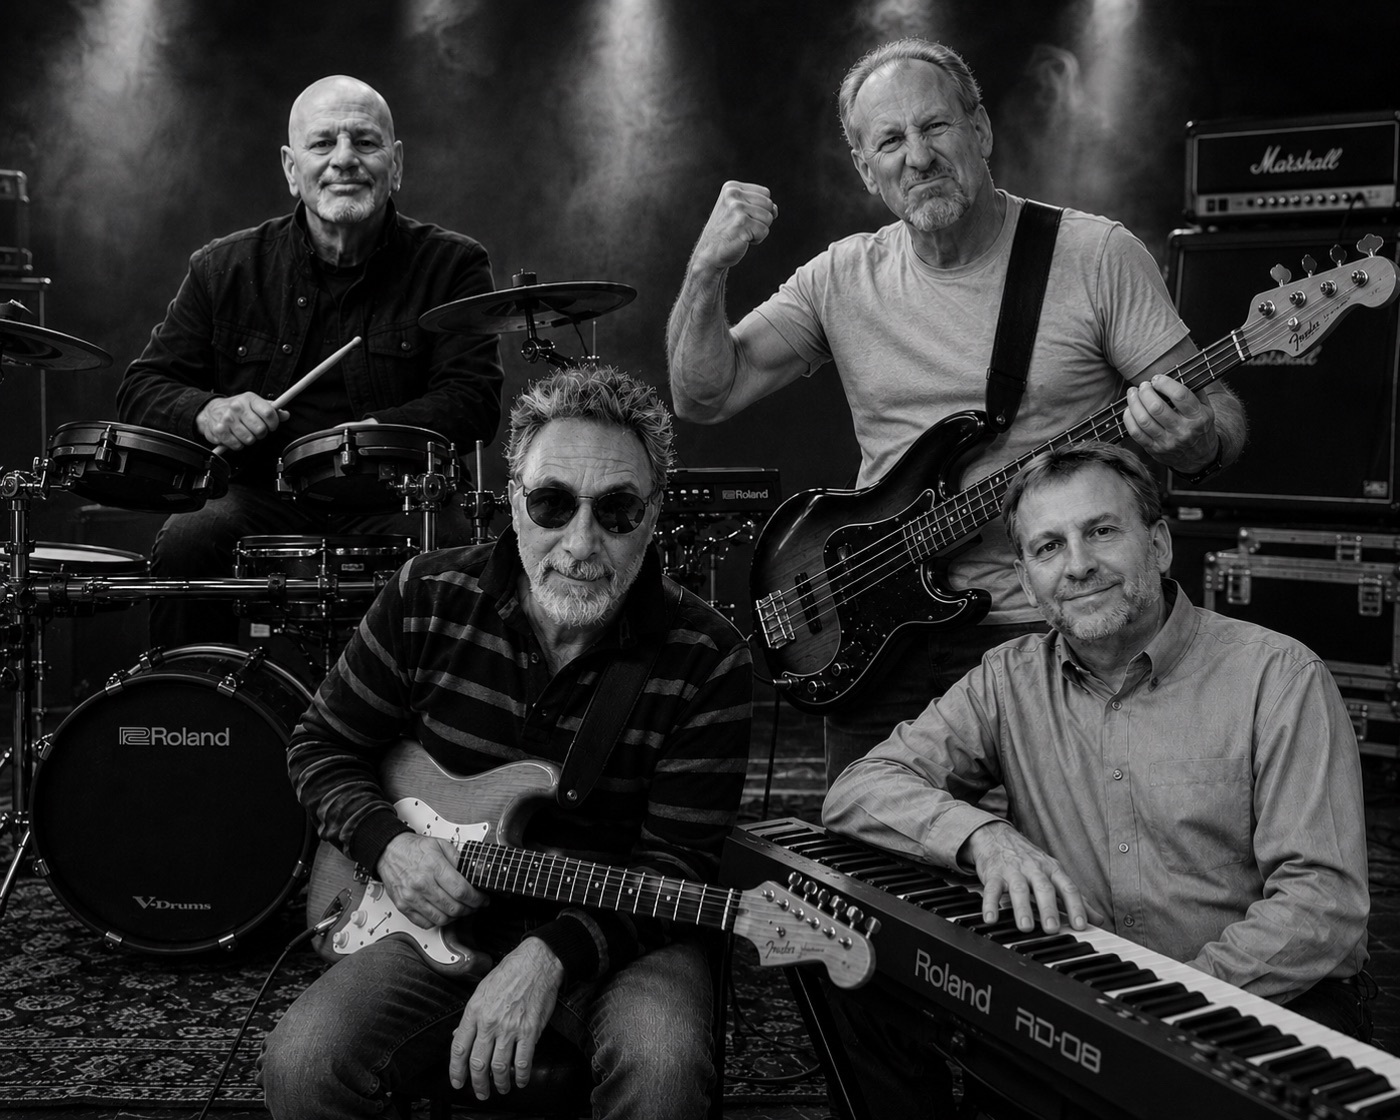
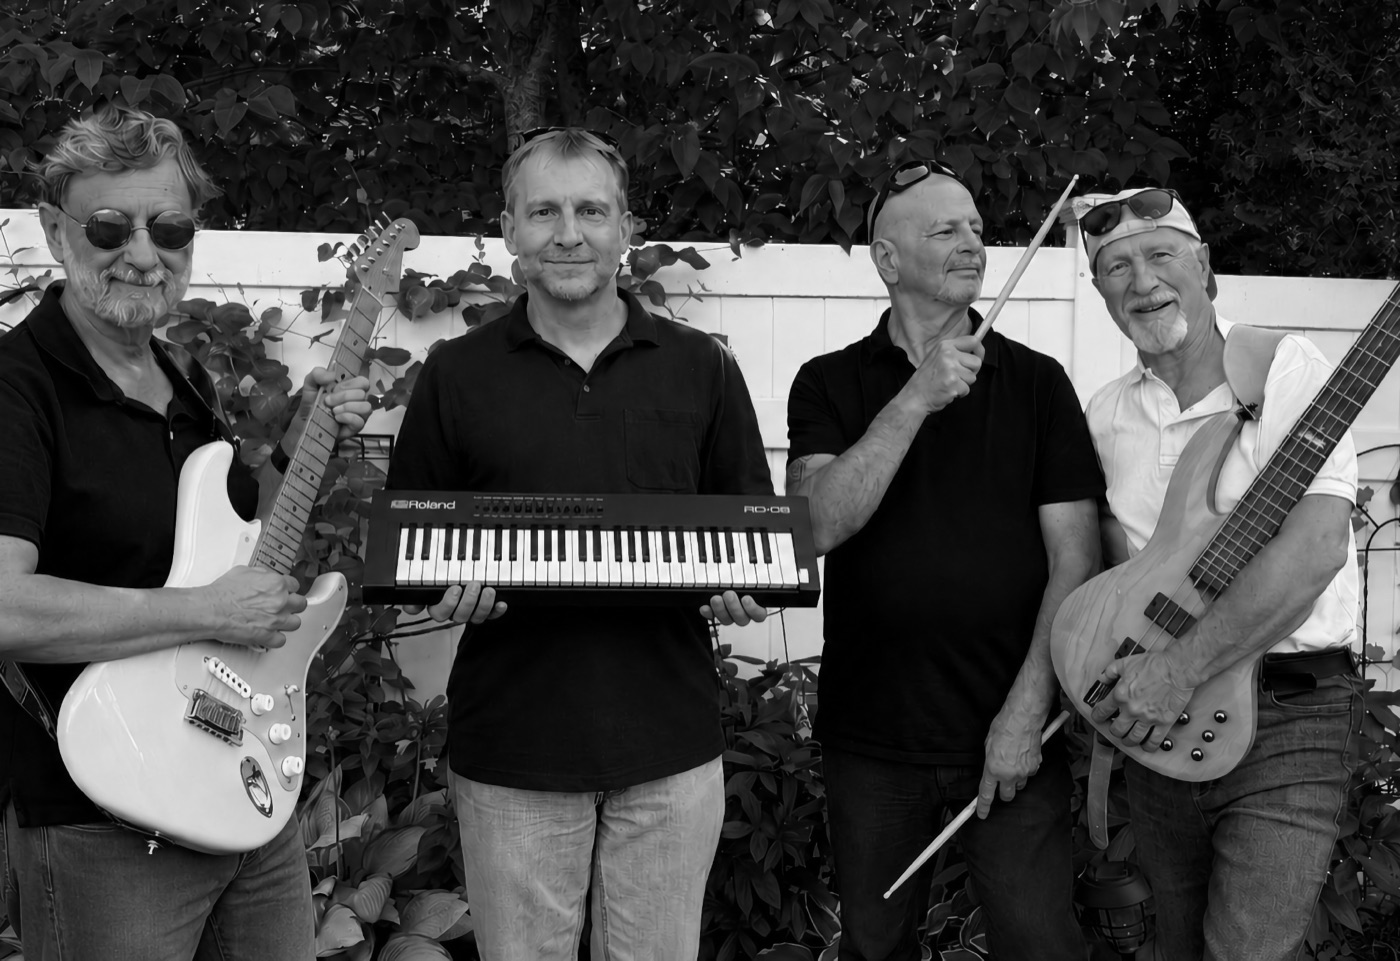
Ship the real band photo, Dan's new headshot, and the Sep 13 show
- assets/band.jpg: real group shot (B&W, 1400x961, q82); update the
  hardcoded img dimensions and alt text to match
- members/dan.jpg: new real headshot replacing the stock image
- Next show moves to Sunday, September 13 (hero banner + tickets card)
- Tickets: drop the "we'll reply to confirm" clause and the
  "Email us about tickets" button (plus its now-unused CSS)
- Ignore the local pics/ source folder

Claude-Session: https://claude.ai/code/session_01Y3CWaHMVrpbPnu3agCjrTD

diff --git a/index.html b/index.html
@@ -43,7 +43,7 @@
     <!-- NEXT-SHOW : update date / venue / status here -->
     <a class="show-banner" href="#tickets">
       <span class="show-label">Next show</span>
-      <span class="show-details">Sep 11 · 7 PM · Hummingbird Hall · $20</span>
+      <span class="show-details">Sep 13 · 7 PM · Hummingbird Hall · $20</span>
       <span class="show-status">Get tickets →</span>
     </a>
   </section>
@@ -58,7 +58,7 @@
         drawing on rock, jazz, classical, world music — and the occasional TV theme.
         <!-- PLACEHOLDER: replace with updated band bio for the new lineup -->
       </p>
-      <img class="about-photo" src="assets/band.jpg" alt="Offbeet on stage: Jim at the drums, Fabio with guitar, Dan on bass, Rob at the keyboard" loading="lazy" width="1400" height="1120">
+      <img class="about-photo" src="assets/band.jpg" alt="The four members of Offbeet outdoors with their instruments: Fabio with electric guitar, Rob holding a Roland keyboard, Jim with a drumstick, Dan with his bass" loading="lazy" width="1400" height="961">
     </div>
   </section>
 
@@ -138,18 +138,17 @@
 
     <!-- TICKETS-INFO : update show details and e-transfer instructions here -->
     <div class="ticket-card">
-      <p class="ticket-show">Next show: <strong>Friday, September 11</strong> · Hummingbird Hall · <strong>$20</strong></p>
+      <p class="ticket-show">Next show: <strong>Sunday, September 13</strong> · Hummingbird Hall · <strong>$20</strong></p>
       <p class="ticket-time">Doors open 6:30 PM · Music 7–9 PM</p>
       <div class="ticket-how">
         <h3>How to get tickets</h3>
         <ol>
           <li>Send an Interac e-transfer to <a href="mailto:offbeetottawa@gmail.com">offbeetottawa@gmail.com</a></li>
           <li>In the transfer message, include <strong>your name</strong> and the <strong>number of tickets</strong></li>
-          <li>We'll reply to confirm — your name will be on the list at the door</li>
+          <li>Your name will be on the list at the door</li>
         </ol>
         <p class="ticket-note">No payment processor, no fees — just an e-transfer and a confirmation email.</p>
       </div>
-      <a class="ticket-cta" href="mailto:offbeetottawa@gmail.com?subject=Tickets">Email us about tickets</a>
     </div>
   </section>
 

diff --git a/style.css b/style.css
@@ -354,22 +354,6 @@ section[id] { scroll-margin-top: calc(var(--nav-h) + 1.5rem); }
   margin-top: 1rem;
 }
 
-.ticket-cta {
-  display: inline-block;
-  margin-top: 1.15rem;
-  background: var(--beet);
-  color: #fff;
-  font-weight: 600;
-  font-size: 0.9375rem;
-  padding: 0.7rem 1.5rem;
-  border-radius: 99px;
-}
-
-.ticket-cta:hover {
-  background: var(--beet-dark);
-  text-decoration: none;
-}
-
 /* ---------- Contact ---------- */
 
 .contact-line {

diff --git a/CLAUDE.md b/CLAUDE.md
@@ -47,22 +47,18 @@ this one is not protected, so a colour photo would ship in colour. Steps:
    `sips -m "/System/Library/ColorSync/Profiles/Generic Gray Gamma 2.2 Profile.icc" band.jpg`
    then `sips -Z 1400 band.jpg` and re-encode at ~82 quality.
 2. Update `width`/`height` on the `<img class="about-photo">` in index.html —
-   they're hardcoded (currently 1400×1120) and a stale pair causes layout shift.
-3. Rewrite its `alt` text; the current one describes the AI-generated image.
+   they're hardcoded (currently 1400×961) and a stale pair causes layout shift.
+3. Rewrite its `alt` text to match the new photo.
 
-## Current content status (July 2026)
+## Current content status (August 2026)
 
 - Lineup: Jim Gamo (drums), Fabio Katz (guitar/mandolin/Chapman Stick),
   Dan Sharon (bass), Rob Coplan (keyboards). Paul Migneault left the band.
-- `assets/band.jpg` (About section) is **AI-generated** (ChatGPT) — the band was
-  shooting a real group photo at practice on July 24, 2026. Swap it in when
-  Fabio provides it, following "Replacing the About group photo" above.
-- Dan's headshot is a stock image Fabio found online, contrast-boosted by him.
-  Treat it as final — Dan isn't supplying a better picture. Don't re-encode it
-  (that would soften the added contrast); only swap it if Fabio says so.
-  Rob's is a real photo of him.
+- `assets/band.jpg` (About section) is the real group photo from the July 2026
+  practice shoot (B&W, 1400×961) — final.
+- All four member headshots are real photos, B&W and square.
 - All four bios are real (content from Fabio).
-- Next show: Friday, September 11, 2026 · Hummingbird Hall · $20 ·
+- Next show: Sunday, September 13, 2026 · Hummingbird Hall · $20 ·
   doors 6:30 PM, music 7–9 PM.
 - Social links: none yet; commented-out block ready in the Contact section.
 - Videos: three YouTube embeds carried over from the old Google Sites page.
